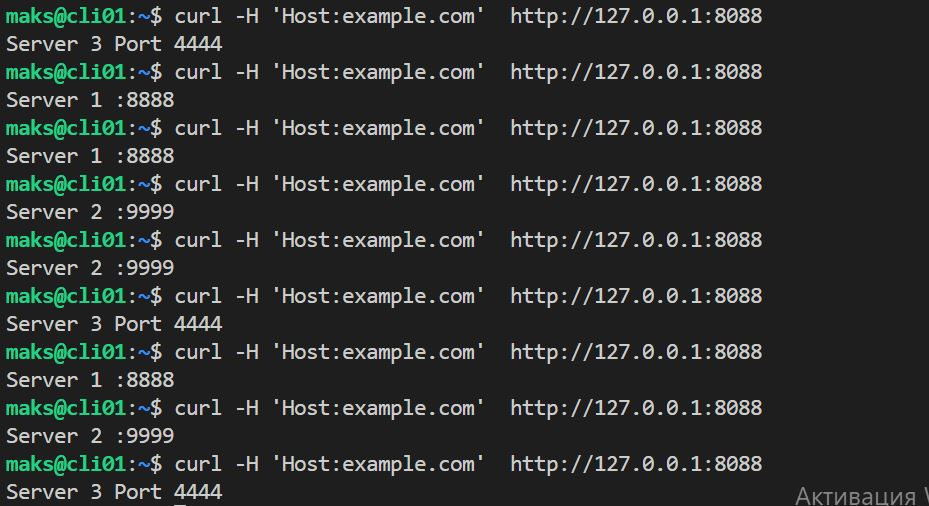
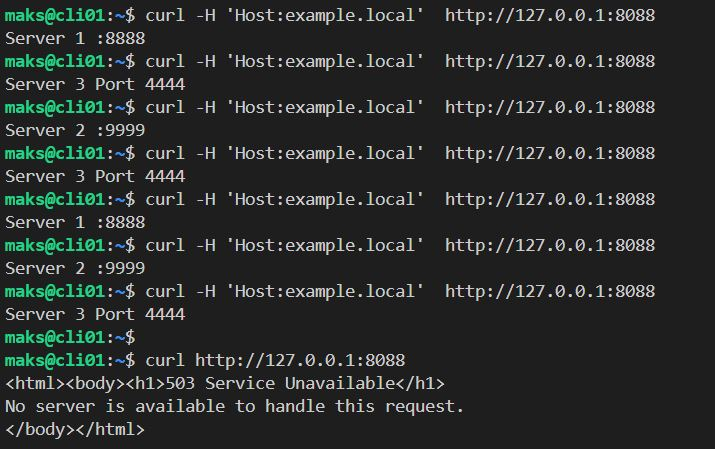
add hw04 task02 03

Changed region(s): [[0.0, 0.0, 0.9231, 1.0], [0.8615, 0.9666, 1.0, 0.9978]]

diff --git a/training/10 Отказоустойчивость/04 Кластеризация и балансировка нагрузки/README.md b/training/10 Отказоустойчивость/04 Кластеризация и балансировка нагрузки/README.md
@@ -48,6 +48,17 @@ sudo systemctl reload haproxy.service
 - На проверку направьте конфигурационный файл haproxy, скриншоты, где видно перенаправление запросов на разные серверы при обращении к HAProxy c использованием домена example.local и без него.  
 
 Конфиг [HAProxy](config/haproxy02.cfg) 
+Часть конфига haproxy.cfg
+```
+backend web_servers    # секция бэкенд
+        mode http
+        balance roundrobin
+        option httpchk
+        http-check send meth GET uri /index.html
+        server s1 127.0.0.1:8888 weight 2 check
+        server s2 127.0.0.1:9999 weight 3 check
+        server s3 127.0.0.1:4444 weight 4 check
+```
 
 ![check_task02](img/check_task02.JPG)  
 ![HAProxy_stats](img/HAProxy_stats.JPG)  
